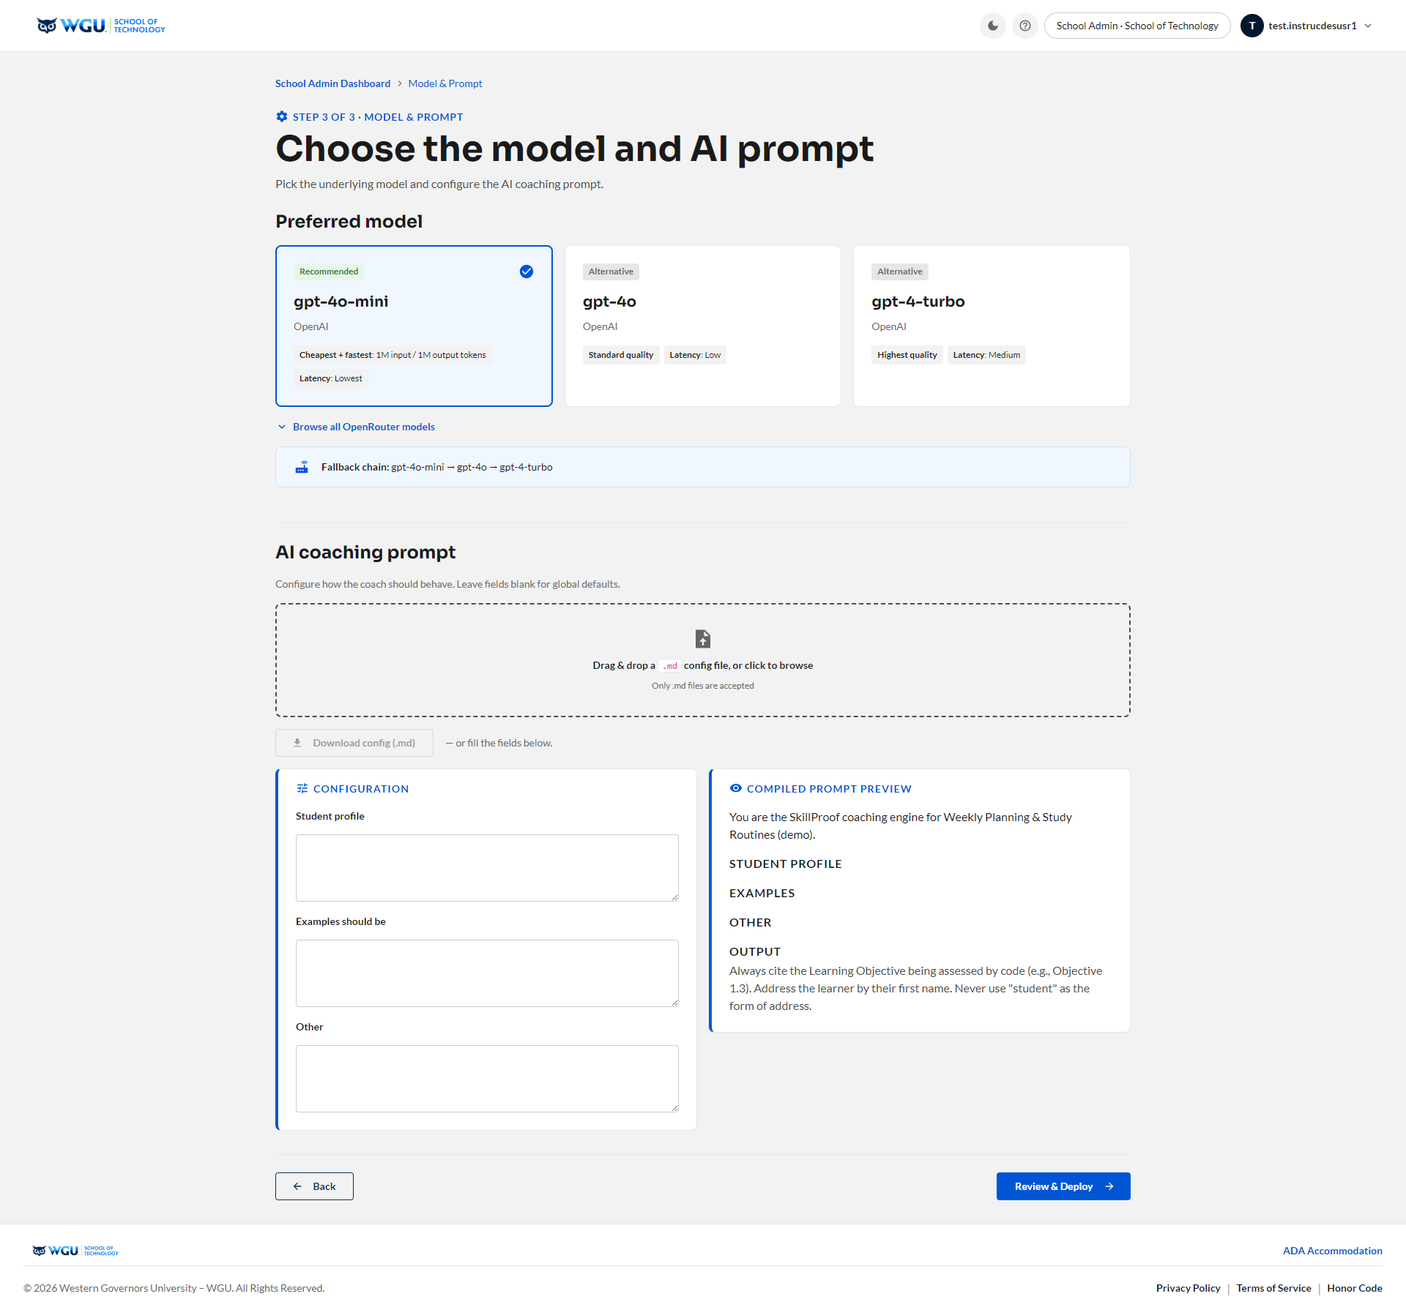
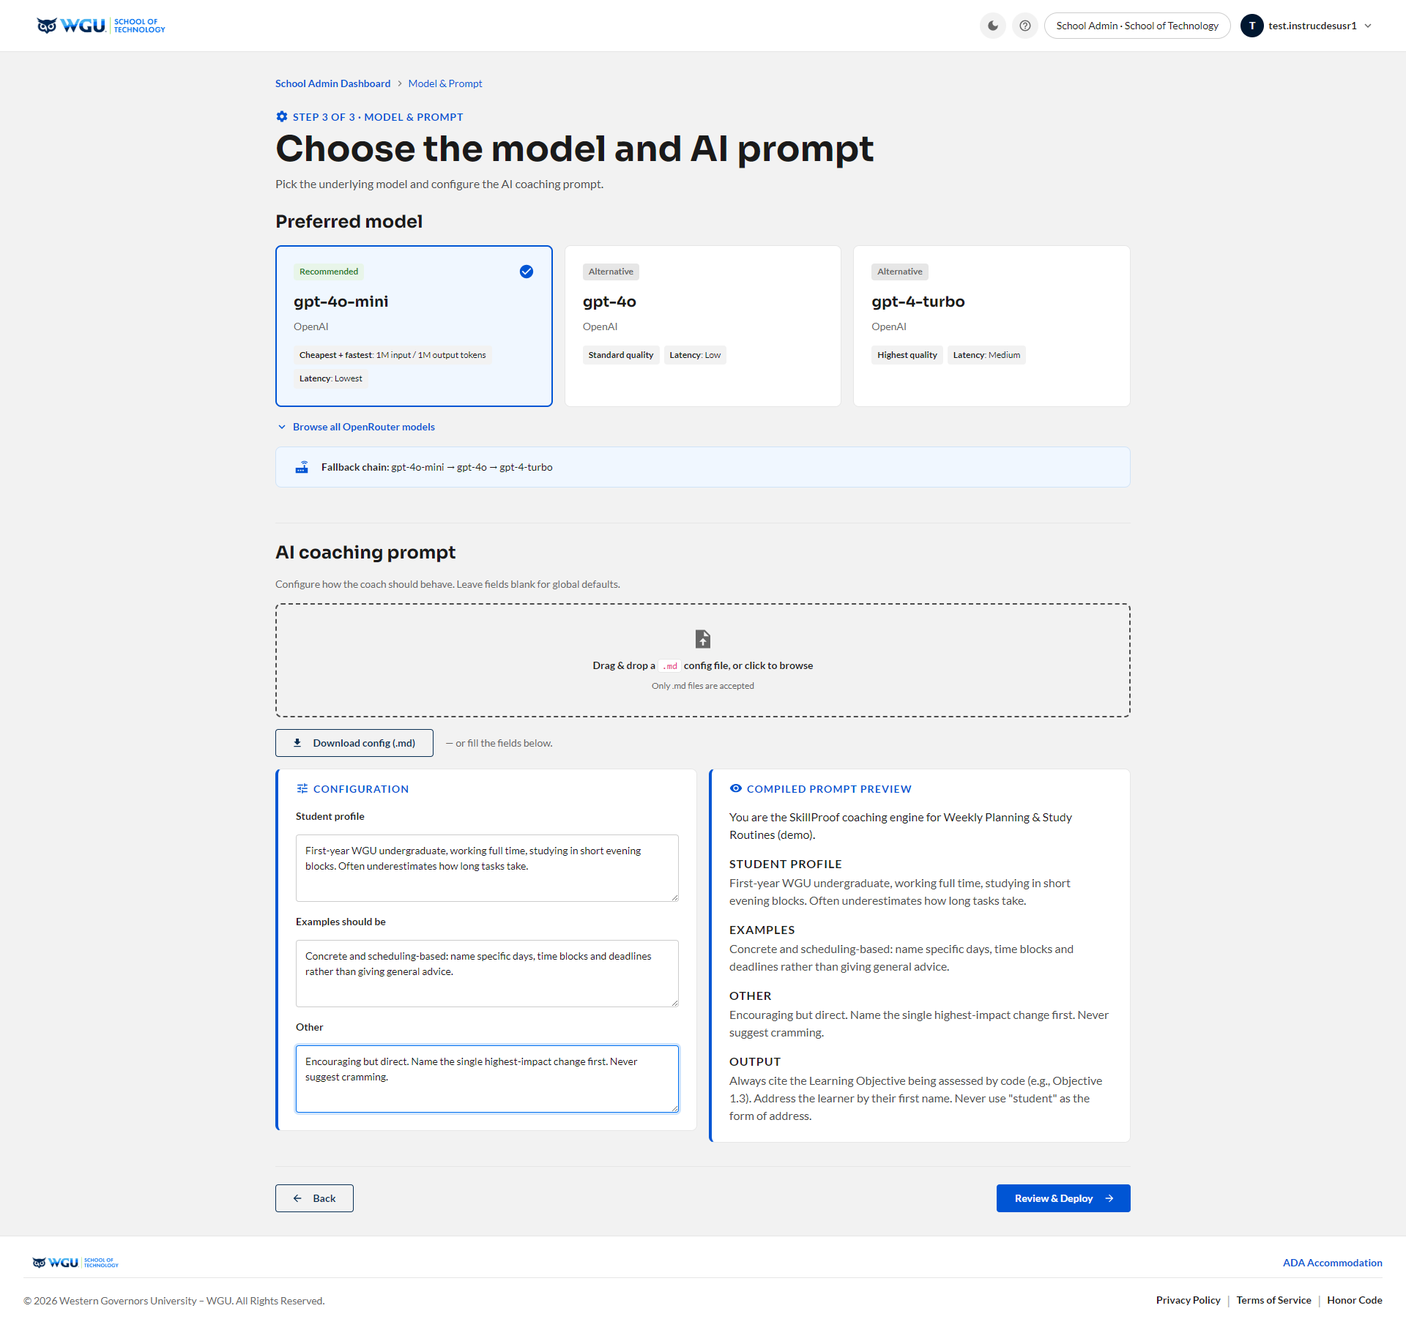
Bump the image cache-buster, and configure the AI prompt screen
Self-audit after review found two things a visual pass could not surface.

CACHE-BUSTER NOT BUMPED (the important one). Screenshots were re-captured several
times today while `v` stayed put, so the ?v= query on every <img> never changed
and any browser that had loaded the site was still being served the CACHED
SKELETON images. The published fix was invisible -- the review may well have been
looking at stale files. All four personas bumped to v=7, and the rule is now
written into each flow file and the README: bump v whenever screenshots change.

WIZARD STEP 3 SHOWED AN EMPTY FORM. The one screen whose purpose is to
demonstrate AI configuration had all three prompt fields blank, so the COMPILED
PROMPT PREVIEW rendered empty STUDENT PROFILE / EXAMPLES / OTHER sections and
"Download config (.md)" sat disabled. Now filled with a realistic student profile,
example style and tone constraint, so the preview shows a real compiled system
prompt.

Also verified in this pass:
- "Open Heatmap" nth=5 still resolves to the Time Management card for BOTH admin
  personas now that B002 holds seven skill cards (3 live, 3 archived, 1 staging;
  the staging Skill appends at nth=6). verify-demo.js cannot catch a wrong nth,
  since the click still navigates -- it just starts from the wrong card.
- every screen captured as already-light; redaction wrapped 20 dashboard rows,
  17 heatmap learners and 2 profile fields, with zero unresolved hotspots.
[…]

diff --git a/tenant_admin/index.html b/tenant_admin/index.html
@@ -137,7 +137,7 @@
     <h2 id="s1-heading" class="screen-heading visually-hidden" tabindex="-1">Screen 1 — Dashboard — 16 courses</h2>
     <div class="shot">
       <div class="shot-inner">
-        <img src="screenshots/screen-01.png?v=5" alt="Tenant Admin: Dashboard — 16 courses">
+        <img src="screenshots/screen-01.png?v=7" alt="Tenant Admin: Dashboard — 16 courses">
         <button class="hotspot" style="left:19.58%;top:28.51%;width:30%;height:8.87%;" aria-label="Open course B002" onclick="goToScreen(2)"></button>
         <button class="hotspot" style="left:42.12%;top:10.05%;width:6.2%;height:1.03%;" aria-label="Open Analytics &amp; Reporting" onclick="goToScreen(5)"></button>
       </div>
@@ -147,7 +147,7 @@
     <h2 id="s2-heading" class="screen-heading visually-hidden" tabindex="-1">Screen 2 — Course detail — B002</h2>
     <div class="shot">
       <div class="shot-inner">
-        <img src="screenshots/screen-02.png?v=5" alt="Tenant Admin: Course detail — B002">
+        <img src="screenshots/screen-02.png?v=7" alt="Tenant Admin: Course detail — B002">
         <button class="hotspot" style="left:40.88%;top:77.55%;width:6.2%;height:0.88%;" aria-label="Open the STU101 skill heatmap" onclick="goToScreen(3)"></button>
         <button class="hotspot" style="left:19.58%;top:92.58%;width:9.32%;height:1.37%;" aria-label="Back to Dashboard" onclick="goToScreen(1)"></button>
       </div>
@@ -157,7 +157,7 @@
     <h2 id="s3-heading" class="screen-heading visually-hidden" tabindex="-1">Screen 3 — Skill heatmap — STU101, 17 learners</h2>
     <div class="shot">
       <div class="shot-inner">
-        <img src="screenshots/screen-03.png?v=5" alt="Tenant Admin: Skill heatmap — STU101, 17 learners">
+        <img src="screenshots/screen-03.png?v=7" alt="Tenant Admin: Skill heatmap — STU101, 17 learners">
         <button class="hotspot" style="left:21.51%;top:35.65%;width:5.99%;height:1.93%;" aria-label="Open a learner profile" onclick="goToScreen(4)"></button>
         <button class="hotspot" style="left:19.58%;top:88.08%;width:9.75%;height:2.2%;" aria-label="Back to Course view" onclick="goToScreen(2)"></button>
       </div>
@@ -167,7 +167,7 @@
     <h2 id="s4-heading" class="screen-heading visually-hidden" tabindex="-1">Screen 4 — Learner profile — per-topic mastery</h2>
     <div class="shot">
       <div class="shot-inner">
-        <img src="screenshots/screen-04.png?v=5" alt="Tenant Admin: Learner profile — per-topic mastery">
+        <img src="screenshots/screen-04.png?v=7" alt="Tenant Admin: Learner profile — per-topic mastery">
         <button class="hotspot" style="left:19.58%;top:79.19%;width:8.75%;height:3.15%;" aria-label="Back to Heatmap" onclick="goToScreen(3)"></button>
       </div>
     </div>
@@ -176,7 +176,7 @@
     <h2 id="s5-heading" class="screen-heading visually-hidden" tabindex="-1">Screen 5 — Analytics &amp; Reporting</h2>
     <div class="shot">
       <div class="shot-inner">
-        <img src="screenshots/screen-05.png?v=5" alt="Tenant Admin: Analytics &amp; Reporting">
+        <img src="screenshots/screen-05.png?v=7" alt="Tenant Admin: Analytics &amp; Reporting">
         <button class="hotspot" style="left:19.58%;top:3.41%;width:8.21%;height:0.72%;" aria-label="Back to Dashboard" onclick="goToScreen(1)"></button>
       </div>
     </div>
@@ -185,7 +185,7 @@
     <h2 id="s6-heading" class="screen-heading visually-hidden" tabindex="-1">Screen 6 — New Skill wizard — Step 1: Skill details</h2>
     <div class="shot">
       <div class="shot-inner">
-        <img src="screenshots/screen-06.png?v=5" alt="Tenant Admin: New Skill wizard — Step 1: Skill details">
+        <img src="screenshots/screen-06.png?v=7" alt="Tenant Admin: New Skill wizard — Step 1: Skill details">
         <button class="hotspot" style="left:72.45%;top:69.71%;width:7.96%;height:3.52%;" aria-label="Continue to Topics" onclick="goToScreen(7)"></button>
       </div>
     </div>
@@ -194,7 +194,7 @@
     <h2 id="s7-heading" class="screen-heading visually-hidden" tabindex="-1">Screen 7 — New Skill wizard — Step 2: Topics &amp; objectives</h2>
     <div class="shot">
       <div class="shot-inner">
-        <img src="screenshots/screen-07.png?v=5" alt="Tenant Admin: New Skill wizard — Step 2: Topics &amp; objectives">
+        <img src="screenshots/screen-07.png?v=7" alt="Tenant Admin: New Skill wizard — Step 2: Topics &amp; objectives">
         <button class="hotspot" style="left:69.13%;top:79.64%;width:11.29%;height:3.52%;" aria-label="Continue to Model &amp; Prompt" onclick="goToScreen(8)"></button>
       </div>
     </div>
@@ -203,8 +203,8 @@
     <h2 id="s8-heading" class="screen-heading visually-hidden" tabindex="-1">Screen 8 — New Skill wizard — Step 3: Model &amp; AI prompt</h2>
     <div class="shot">
       <div class="shot-inner">
-        <img src="screenshots/screen-08.png?v=5" alt="Tenant Admin: New Skill wizard — Step 3: Model &amp; AI prompt">
-        <button class="hotspot" style="left:19.58%;top:89.48%;width:5.59%;height:2.12%;" aria-label="Back to Topics" onclick="goToScreen(7)"></button>
+        <img src="screenshots/screen-08.png?v=7" alt="Tenant Admin: New Skill wizard — Step 3: Model &amp; AI prompt">
+        <button class="hotspot" style="left:19.58%;top:89.61%;width:5.59%;height:2.1%;" aria-label="Back to Topics" onclick="goToScreen(7)"></button>
       </div>
     </div>
   </section>
@@ -212,7 +212,7 @@
     <h2 id="s9-heading" class="screen-heading visually-hidden" tabindex="-1">Screen 9 — Tenant Settings</h2>
     <div class="shot">
       <div class="shot-inner">
-        <img src="screenshots/screen-09.png?v=5" alt="Tenant Admin: Tenant Settings">
+        <img src="screenshots/screen-09.png?v=7" alt="Tenant Admin: Tenant Settings">
 
       </div>
     </div>
@@ -221,7 +221,7 @@
     <h2 id="s10-heading" class="screen-heading visually-hidden" tabindex="-1">Screen 10 — Help &amp; Support</h2>
     <div class="shot">
       <div class="shot-inner">
-        <img src="screenshots/screen-10.png?v=5" alt="Tenant Admin: Help &amp; Support">
+        <img src="screenshots/screen-10.png?v=7" alt="Tenant Admin: Help &amp; Support">
         <button class="hotspot" style="left:28.24%;top:83.62%;width:4.58%;height:3.19%;" aria-label="Back to Dashboard" onclick="goToScreen(1)"></button>
       </div>
     </div>

diff --git a/instructor/index.html b/instructor/index.html
@@ -137,7 +137,7 @@
     <h2 id="s1-heading" class="screen-heading visually-hidden" tabindex="-1">Screen 1 — Dashboard — 4 courses, learners needing attention</h2>
     <div class="shot">
       <div class="shot-inner">
-        <img src="screenshots/screen-01.png?v=6" alt="Instructor: Dashboard — 4 courses, learners needing attention">
+        <img src="screenshots/screen-01.png?v=7" alt="Instructor: Dashboard — 4 courses, learners needing attention">
         <button class="hotspot" style="left:50.42%;top:15.77%;width:30%;height:13.74%;" aria-label="Open course B002" onclick="goToScreen(2)"></button>
       </div>
     </div>
@@ -146,7 +146,7 @@
     <h2 id="s2-heading" class="screen-heading visually-hidden" tabindex="-1">Screen 2 — Course detail — B002</h2>
     <div class="shot">
       <div class="shot-inner">
-        <img src="screenshots/screen-02.png?v=6" alt="Instructor: Course detail — B002">
+        <img src="screenshots/screen-02.png?v=7" alt="Instructor: Course detail — B002">
         <button class="hotspot" style="left:20.99%;top:77.3%;width:8.1%;height:1.37%;" aria-label="Open the STU101 skill heatmap" onclick="goToScreen(3)"></button>
         <button class="hotspot" style="left:19.58%;top:92.58%;width:9.32%;height:1.37%;" aria-label="Back to Dashboard" onclick="goToScreen(1)"></button>
       </div>
@@ -156,7 +156,7 @@
     <h2 id="s3-heading" class="screen-heading visually-hidden" tabindex="-1">Screen 3 — Skill heatmap — STU101, 17 learners</h2>
     <div class="shot">
       <div class="shot-inner">
-        <img src="screenshots/screen-03.png?v=6" alt="Instructor: Skill heatmap — STU101, 17 learners">
+        <img src="screenshots/screen-03.png?v=7" alt="Instructor: Skill heatmap — STU101, 17 learners">
         <button class="hotspot" style="left:21.51%;top:35.65%;width:5.99%;height:1.93%;" aria-label="Open a learner profile" onclick="goToScreen(4)"></button>
         <button class="hotspot" style="left:19.58%;top:88.08%;width:9.75%;height:2.2%;" aria-label="Back to Course view" onclick="goToScreen(2)"></button>
       </div>
@@ -166,7 +166,7 @@
     <h2 id="s4-heading" class="screen-heading visually-hidden" tabindex="-1">Screen 4 — Learner profile — per-topic mastery</h2>
     <div class="shot">
       <div class="shot-inner">
-        <img src="screenshots/screen-04.png?v=6" alt="Instructor: Learner profile — per-topic mastery">
+        <img src="screenshots/screen-04.png?v=7" alt="Instructor: Learner profile — per-topic mastery">
         <button class="hotspot" style="left:71.67%;top:79.19%;width:8.75%;height:3.15%;" aria-label="Back to Heatmap" onclick="goToScreen(3)"></button>
       </div>
     </div>
@@ -175,7 +175,7 @@
     <h2 id="s5-heading" class="screen-heading visually-hidden" tabindex="-1">Screen 5 — Staging Skills — preview before go-live</h2>
     <div class="shot">
       <div class="shot-inner">
-        <img src="screenshots/screen-05.png?v=6" alt="Instructor: Staging Skills — preview before go-live">
+        <img src="screenshots/screen-05.png?v=7" alt="Instructor: Staging Skills — preview before go-live">
         <button class="hotspot" style="left:73.57%;top:30.58%;width:5.13%;height:4.07%;" aria-label="Preview the B002 staging Skill" onclick="goToScreen(6)"></button>
         <button class="hotspot" style="left:19.58%;top:10.28%;width:7.42%;height:2.02%;" aria-label="Back to Dashboard" onclick="goToScreen(1)"></button>
       </div>
@@ -185,7 +185,7 @@
     <h2 id="s6-heading" class="screen-heading visually-hidden" tabindex="-1">Screen 6 — Skill Preview — AI-generated question</h2>
     <div class="shot">
       <div class="shot-inner">
-        <img src="screenshots/screen-06.png?v=6" alt="Instructor: Skill Preview — AI-generated question">
+        <img src="screenshots/screen-06.png?v=7" alt="Instructor: Skill Preview — AI-generated question">
         <button class="hotspot" style="left:25%;top:71.68%;width:10.35%;height:3.83%;" aria-label="Submit the answer for AI evaluation" onclick="goToScreen(7)"></button>
       </div>
     </div>
@@ -194,7 +194,7 @@
     <h2 id="s7-heading" class="screen-heading visually-hidden" tabindex="-1">Screen 7 — Skill Preview — AI evaluation</h2>
     <div class="shot">
       <div class="shot-inner">
-        <img src="screenshots/screen-07.png?v=6" alt="Instructor: Skill Preview — AI evaluation">
+        <img src="screenshots/screen-07.png?v=7" alt="Instructor: Skill Preview — AI evaluation">
         <button class="hotspot" style="left:89.6%;top:87.91%;width:8.74%;height:2.37%;" aria-label="Finish the preview" onclick="goToScreen(5)"></button>
       </div>
     </div>
@@ -203,7 +203,7 @@
     <h2 id="s8-heading" class="screen-heading visually-hidden" tabindex="-1">Screen 8 — Help &amp; Support</h2>
     <div class="shot">
       <div class="shot-inner">
-        <img src="screenshots/screen-08.png?v=6" alt="Instructor: Help &amp; Support">
+        <img src="screenshots/screen-08.png?v=7" alt="Instructor: Help &amp; Support">
         <button class="hotspot" style="left:28.24%;top:83.62%;width:4.58%;height:3.19%;" aria-label="Back to Dashboard" onclick="goToScreen(1)"></button>
       </div>
     </div>

diff --git a/student/index.html b/student/index.html
@@ -137,7 +137,7 @@
     <h2 id="s1-heading" class="screen-heading visually-hidden" tabindex="-1">Screen 1 — Course landing — STU101</h2>
     <div class="shot">
       <div class="shot-inner">
-        <img src="screenshots/screen-01.png?v=5" alt="Student: Course landing — STU101">
+        <img src="screenshots/screen-01.png?v=7" alt="Student: Course landing — STU101">
         <button class="hotspot" style="left:20.42%;top:55.84%;width:10.21%;height:3.89%;" aria-label="Begin the AI diagnostic" onclick="goToScreen(2)"></button>
       </div>
     </div>
@@ -146,7 +146,7 @@
     <h2 id="s2-heading" class="screen-heading visually-hidden" tabindex="-1">Screen 2 — AI diagnostic — generated question</h2>
     <div class="shot">
       <div class="shot-inner">
-        <img src="screenshots/screen-02.png?v=5" alt="Student: AI diagnostic — generated question">
+        <img src="screenshots/screen-02.png?v=7" alt="Student: AI diagnostic — generated question">
         <button class="hotspot" style="left:25%;top:72.41%;width:10.35%;height:3.73%;" aria-label="Submit the answer for AI evaluation" onclick="goToScreen(3)"></button>
       </div>
     </div>
@@ -155,7 +155,7 @@
     <h2 id="s3-heading" class="screen-heading visually-hidden" tabindex="-1">Screen 3 — AI evaluation of the answer</h2>
     <div class="shot">
       <div class="shot-inner">
-        <img src="screenshots/screen-03.png?v=5" alt="Student: AI evaluation of the answer">
+        <img src="screenshots/screen-03.png?v=7" alt="Student: AI evaluation of the answer">
         <button class="hotspot" style="left:89.62%;top:87.07%;width:8.71%;height:2.52%;" aria-label="Continue the diagnostic" onclick="goToScreen(4)"></button>
       </div>
     </div>
@@ -164,7 +164,7 @@
     <h2 id="s4-heading" class="screen-heading visually-hidden" tabindex="-1">Screen 4 — Diagnostic results — baseline mastery</h2>
     <div class="shot">
       <div class="shot-inner">
-        <img src="screenshots/screen-04.png?v=5" alt="Student: Diagnostic results — baseline mastery">
+        <img src="screenshots/screen-04.png?v=7" alt="Student: Diagnostic results — baseline mastery">
         <button class="hotspot" style="left:41.67%;top:66.34%;width:16.67%;height:3.95%;" aria-label="View your Progress Map" onclick="goToScreen(5)"></button>
       </div>
     </div>
@@ -173,7 +173,7 @@
     <h2 id="s5-heading" class="screen-heading visually-hidden" tabindex="-1">Screen 5 — Progress Map — 4 topics</h2>
     <div class="shot">
       <div class="shot-inner">
-        <img src="screenshots/screen-05.png?v=5" alt="Student: Progress Map — 4 topics">
+        <img src="screenshots/screen-05.png?v=7" alt="Student: Progress Map — 4 topics">
         <button class="hotspot" style="left:43.07%;top:21.9%;width:5.52%;height:2.96%;" aria-label="Start the recommended topic" onclick="goToScreen(6)"></button>
       </div>
     </div>
@@ -182,7 +182,7 @@
     <h2 id="s6-heading" class="screen-heading visually-hidden" tabindex="-1">Screen 6 — AI coaching — generated prompt</h2>
     <div class="shot">
       <div class="shot-inner">
-        <img src="screenshots/screen-06.png?v=5" alt="Student: AI coaching — generated prompt">
+        <img src="screenshots/screen-06.png?v=7" alt="Student: AI coaching — generated prompt">
         <button class="hotspot" style="left:51.88%;top:52.55%;width:10.35%;height:3.89%;" aria-label="Submit the answer for AI coaching feedback" onclick="goToScreen(7)"></button>
       </div>
     </div>
@@ -191,7 +191,7 @@
     <h2 id="s7-heading" class="screen-heading visually-hidden" tabindex="-1">Screen 7 — AI coaching feedback — per-objective scoring</h2>
     <div class="shot">
       <div class="shot-inner">
-        <img src="screenshots/screen-07.png?v=5" alt="Student: AI coaching feedback — per-objective scoring">
+        <img src="screenshots/screen-07.png?v=7" alt="Student: AI coaching feedback — per-objective scoring">
         <button class="hotspot" style="left:25.75%;top:7.16%;width:4.48%;height:1.64%;" aria-label="Back to the Progress Map" onclick="goToScreen(5)"></button>
       </div>
     </div>
@@ -200,7 +200,7 @@
     <h2 id="s8-heading" class="screen-heading visually-hidden" tabindex="-1">Screen 8 — Help &amp; Support</h2>
     <div class="shot">
       <div class="shot-inner">
-        <img src="screenshots/screen-08.png?v=5" alt="Student: Help &amp; Support">
+        <img src="screenshots/screen-08.png?v=7" alt="Student: Help &amp; Support">
         <button class="hotspot" style="left:28.24%;top:83.08%;width:4.58%;height:3.17%;" aria-label="Back to the course" onclick="goToScreen(1)"></button>
       </div>
     </div>

diff --git a/super_admin/index.html b/super_admin/index.html
@@ -137,7 +137,7 @@
     <h2 id="s1-heading" class="screen-heading visually-hidden" tabindex="-1">Screen 1 — Dashboard — platform governance</h2>
     <div class="shot">
       <div class="shot-inner">
-        <img src="screenshots/screen-01.png?v=5" alt="Super Admin: Dashboard — platform governance">
+        <img src="screenshots/screen-01.png?v=7" alt="Super Admin: Dashboard — platform governance">
         <button class="hotspot" style="left:18.96%;top:16.68%;width:7.5%;height:1.41%;" aria-label="Open Access Control" onclick="goToScreen(3)"></button>
         <button class="hotspot" style="left:26.87%;top:16.68%;width:5.28%;height:1.41%;" aria-label="Open School Management" onclick="goToScreen(4)"></button>
         <button class="hotspot" style="left:32.57%;top:16.68%;width:5.79%;height:1.41%;" aria-label="Open Analytics &amp; Reporting" onclick="goToScreen(2)"></button>
@@ -148,7 +148,7 @@
     <h2 id="s2-heading" class="screen-heading visually-hidden" tabindex="-1">Screen 2 — Analytics &amp; Reporting</h2>
     <div class="shot">
       <div class="shot-inner">
-        <img src="screenshots/screen-02.png?v=5" alt="Super Admin: Analytics &amp; Reporting">
+        <img src="screenshots/screen-02.png?v=7" alt="Super Admin: Analytics &amp; Reporting">
         <button class="hotspot" style="left:18.96%;top:1.81%;width:7.93%;height:0.35%;" aria-label="Back to Dashboard" onclick="goToScreen(1)"></button>
       </div>
     </div>
@@ -157,7 +157,7 @@
     <h2 id="s3-heading" class="screen-heading visually-hidden" tabindex="-1">Screen 3 — Access Control — permission scopes</h2>
     <div class="shot">
       <div class="shot-inner">
-        <img src="screenshots/screen-03.png?v=5" alt="Super Admin: Access Control — permission scopes">
+        <img src="screenshots/screen-03.png?v=7" alt="Super Admin: Access Control — permission scopes">
         <button class="hotspot" style="left:18.96%;top:3.66%;width:7.93%;height:0.72%;" aria-label="Back to Dashboard" onclick="goToScreen(1)"></button>
       </div>
     </div>
@@ -166,7 +166,7 @@
     <h2 id="s4-heading" class="screen-heading visually-hidden" tabindex="-1">Screen 4 — School Management &amp; Branding</h2>
     <div class="shot">
       <div class="shot-inner">
-        <img src="screenshots/screen-04.png?v=5" alt="Super Admin: School Management &amp; Branding">
+        <img src="screenshots/screen-04.png?v=7" alt="Super Admin: School Management &amp; Branding">
         <button class="hotspot" style="left:18.96%;top:6.29%;width:7.93%;height:1.23%;" aria-label="Back to Dashboard" onclick="goToScreen(1)"></button>
       </div>
     </div>
@@ -175,7 +175,7 @@
     <h2 id="s5-heading" class="screen-heading visually-hidden" tabindex="-1">Screen 5 — Course detail — B002 (contains STU101)</h2>
     <div class="shot">
       <div class="shot-inner">
-        <img src="screenshots/screen-05.png?v=5" alt="Super Admin: Course detail — B002 (contains STU101)">
+        <img src="screenshots/screen-05.png?v=7" alt="Super Admin: Course detail — B002 (contains STU101)">
         <button class="hotspot" style="left:19.58%;top:92.29%;width:8.78%;height:1.42%;" aria-label="Back to Analytics" onclick="goToScreen(2)"></button>
       </div>
     </div>
@@ -184,7 +184,7 @@
     <h2 id="s6-heading" class="screen-heading visually-hidden" tabindex="-1">Screen 6 — Help &amp; Support</h2>
     <div class="shot">
       <div class="shot-inner">
-        <img src="screenshots/screen-06.png?v=5" alt="Super Admin: Help &amp; Support">
+        <img src="screenshots/screen-06.png?v=7" alt="Super Admin: Help &amp; Support">
         <button class="hotspot" style="left:28.24%;top:83.62%;width:4.58%;height:3.19%;" aria-label="Back to Dashboard" onclick="goToScreen(1)"></button>
       </div>
     </div>

diff --git a/README.md b/README.md
@@ -56,6 +56,8 @@ Captures and hotspots are generated by `skillproof-qa-tools/demo-capture.js` (ca
 
 **Notes**
 
+- **Super Admin deliberately has no heatmap or per-learner score screens.** Those exist for that role, but the same views are already covered under School Admin and Instructor, so they are not duplicated here (Brady, 13 AUG 2026).
+- **Bump `v` in each persona's flow.json whenever screenshots are re-captured.** It drives the `?v=` cache-buster on every `<img>`; re-capturing without bumping it leaves browsers serving the previous images, so a shipped fix can look like it never deployed.
 - **Student surnames are masked**; first names and all staff names are left visible, per the 12 AUG 2026 decision.
 - **STAGE test data and "test" labels are expected** and left as-is — this is a beta test tenant, not a cleanup target.
 - The Instructor Skill Preview runs against **`STU101-PREV · Weekly Planning Basics`**, a staging Skill created in B002 on 13 AUG 2026 for this purpose. Staging means students cannot launch it, and only staging Skills appear in the instructor Preview list.
